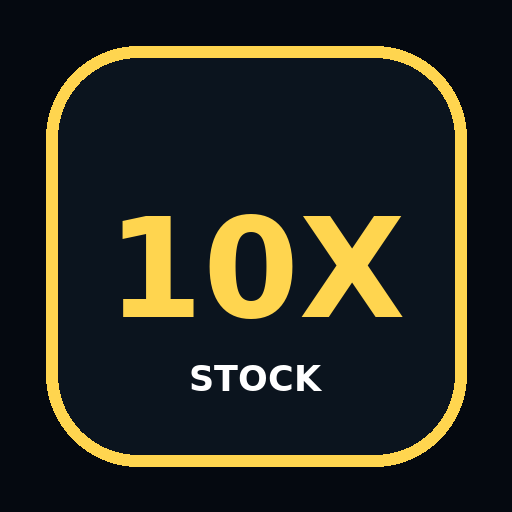
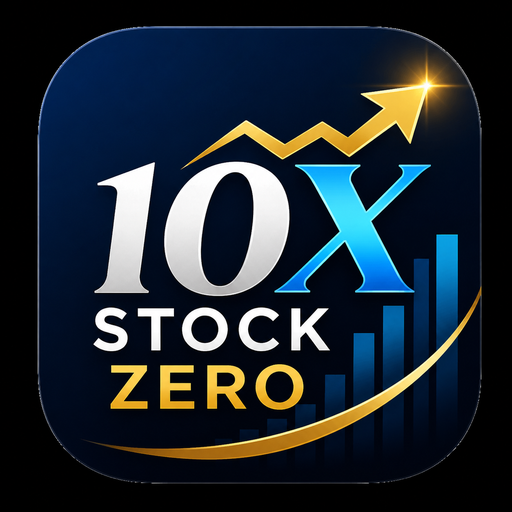
Add files via upload

diff --git a/index.html b/index.html
@@ -10,9 +10,13 @@
 <meta name="apple-mobile-web-app-capable" content="yes">
 <meta name="apple-mobile-web-app-status-bar-style" content="black-translucent">
 <meta name="apple-mobile-web-app-title" content="10X STOCK ZERO">
+<link rel="apple-touch-icon" sizes="180x180" href="apple-touch-icon.png?v=17">
+<link rel="icon" type="image/png" sizes="192x192" href="icon-192.png?v=17">
+<link rel="icon" type="image/png" sizes="512x512" href="icon-512.png?v=17">
 
 
 <title>10X STOCK ZERO</title>
+<link rel="manifest" href="manifest.webmanifest?v=17">
 <style>
 *{box-sizing:border-box;-webkit-tap-highlight-color:transparent}
 :root{
@@ -234,7 +238,7 @@ a{text-decoration:none;color:inherit}
     <button class="menu" id="menuBtn">☰</button>
     <button class="guide" id="guideBtn">使い方ガイド</button>
     <div class="kicker">株式分析ツール</div>
-    <div class="logo">10X STOCK ZERO</div><div style="font-size:9px;color:#68798c;margin-top:-5px;margin-bottom:5px">FINAL COMPLETE v1.6 BALANCE</div>
+    <div class="logo">10X STOCK ZERO</div><div style="font-size:9px;color:#68798c;margin-top:-5px;margin-bottom:5px">FINAL COMPLETE v1.7 ICON</div>
   </div>
 
   <section id="homeView">
